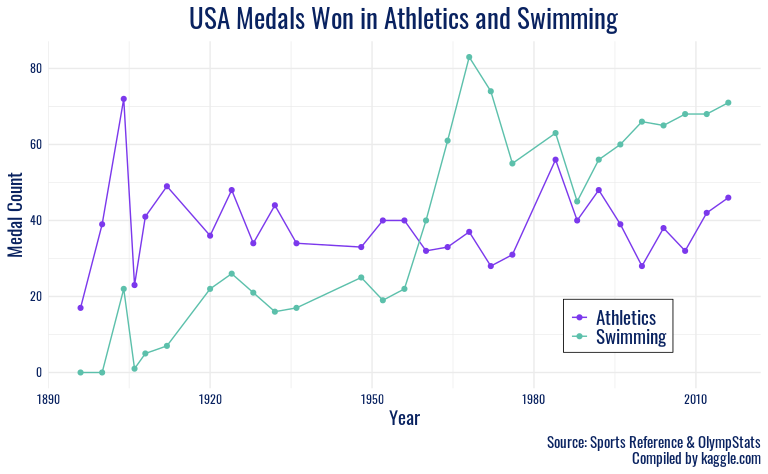
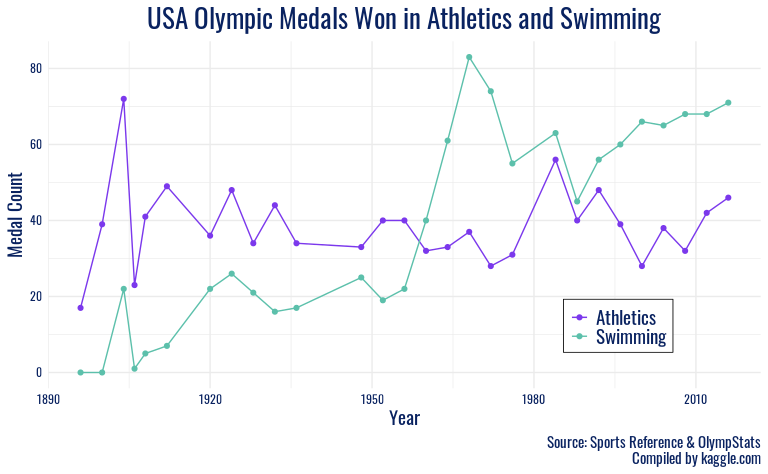
q2plot1

Changed region(s): [[0.1875, 0.0, 0.875, 0.0886]]

diff --git a/README.md b/README.md
@@ -11,6 +11,22 @@ by Mr. Palmer’s Penguins
 
     ## Loading required package: ggplot2
 
+    ## 
+    ## Attaching package: 'dplyr'
+
+    ## The following objects are masked from 'package:plyr':
+    ## 
+    ##     arrange, count, desc, failwith, id, mutate, rename, summarise,
+    ##     summarize
+
+    ## The following objects are masked from 'package:stats':
+    ## 
+    ##     filter, lag
+
+    ## The following objects are masked from 'package:base':
+    ## 
+    ##     intersect, setdiff, setequal, union
+
     ## Rows: 271116 Columns: 15
 
     ## ── Column specification ────────────────────────────────────────────────────────
@@ -573,27 +589,7 @@ flags <- tibble(noc = noc_regions$noc, region = noc_regions$region, flag = count
 
 ``` r
 olympics <- left_join(olympics, flags, by = "noc")
-
-<<<<<<< HEAD
-olympics
 ```
-
-    ## # A tibble: 271,116 × 20
-    ##       id name    sex     age height weight team   noc   games  year season city 
-    ##    <dbl> <chr>   <chr> <dbl>  <dbl>  <dbl> <chr>  <chr> <chr> <dbl> <chr>  <chr>
-    ##  1     1 A Diji… M        24    180     80 China  CHN   1992…  1992 Summer Barc…
-    ##  2     2 A Lamu… M        23    170     60 China  CHN   2012…  2012 Summer Lond…
-    ##  3     3 Gunnar… M        24     NA     NA Denma… DEN   1920…  1920 Summer Antw…
-    ##  4     4 Edgar … M        34     NA     NA Denma… DEN   1900…  1900 Summer Paris
-    ##  5     5 Christ… F        21    185     82 Nethe… NED   1988…  1988 Winter Calg…
-    ##  6     5 Christ… F        21    185     82 Nethe… NED   1988…  1988 Winter Calg…
-    ##  7     5 Christ… F        25    185     82 Nethe… NED   1992…  1992 Winter Albe…
-    ##  8     5 Christ… F        25    185     82 Nethe… NED   1992…  1992 Winter Albe…
-    ##  9     5 Christ… F        27    185     82 Nethe… NED   1994…  1994 Winter Lill…
-    ## 10     5 Christ… F        27    185     82 Nethe… NED   1994…  1994 Winter Lill…
-    ## # … with 271,106 more rows, and 8 more variables: sport <chr>, event <chr>,
-    ## #   medal <chr>, date <date>, medal_winner <dbl>, medal_score <dbl>,
-    ## #   region <chr>, flag <chr>
 
 ``` r
 olympics_filter <- olympics %>%
@@ -602,24 +598,6 @@ olympics_filter <- olympics %>%
   summarize(total_winners = sum(medal_winner), total_score = sum(medal_score))%>%
   filter(total_winners >= 910)
 ```
-
-``` r
-olympics_filter
-```
-
-    ## # A tibble: 10 × 3
-    ##    noc   total_winners total_score
-    ##    <chr>         <dbl>       <dbl>
-    ##  1 AUS            1304        2440
-    ##  2 FRA            1627        3132
-    ##  3 GBR            1985        3986
-    ##  4 GER            1779        3501
-    ##  5 HUN            1123        2315
-    ##  6 ITA            1446        2956
-    ##  7 NED             918        1710
-    ##  8 SWE            1108        2212
-    ##  9 URS            2063        4362
-    ## 10 USA            5002       11279
 
 ``` r
 ggplot(olympics_filter, aes(x = reorder(noc, total_winners), y = total_winners, fill = noc, color = noc))+
@@ -658,32 +636,12 @@ usa_fil <- olympics %>%
     ## `summarise()` has grouped output by 'sport'. You can override using the `.groups` argument.
 
 ``` r
-usa_fil
-```
-
-    ## # A tibble: 56 × 4
-    ## # Groups:   sport [2]
-    ##    sport      year total_winners total_score
-    ##    <chr>     <dbl>         <dbl>       <dbl>
-    ##  1 Athletics  1896            17          41
-    ##  2 Athletics  1900            39          84
-    ##  3 Athletics  1904            72         149
-    ##  4 Athletics  1906            23          51
-    ##  5 Athletics  1908            41          93
-    ##  6 Athletics  1912            49         109
-    ##  7 Athletics  1920            36          80
-    ##  8 Athletics  1924            48          99
-    ##  9 Athletics  1928            34          75
-    ## 10 Athletics  1932            44         107
-    ## # … with 46 more rows
-
-``` r
 ggplot(usa_fil, aes(x = year, y = total_winners, color = sport, group = sport))+
   geom_line()+
   geom_point()+
   labs(x = "Year",
        y = "Medal Count",
-       title = "USA Medals Won in Athletics and Swimming",
+       title = "USA Olympic Medals Won in Athletics and Swimming",
        caption = "Source: Sports Reference & OlympStats\nCompiled by kaggle.com") +
   theme_minimal() +
   scale_color_manual(values = c("#7B38EC","#5CC0AB"))+
@@ -708,11 +666,13 @@ ggplot(usa_fil, aes(x = year, y = total_winners, color = sport, group = sport))+
 <img src="README_files/figure-gfm/unnamed-chunk-6-1.png" width="80%" />
 
 ``` r
-ggplot(usa_fil, aes(x = year, y = cumsum(total_winners), color = sport, group = sport))+
+usa_fil2 <- ddply(usa_fil, .(sport), transform, cumsumwin = cumsum(total_winners))
+
+ggplot(usa_fil2, aes(x = year, y = cumsumwin, color = sport, group = sport))+
   geom_line()+
   labs(x = "Year",
-       y = "Medal Count",
-       title = "USA Medals Won in Athletics and Swimming",
+       y = "Cumulative Medal Count",
+       title = "USA Cumulative Olympic Medals Won in Athletics and Swimming",
        caption = "Source: Sports Reference & OlympStats\nCompiled by kaggle.com") +
   theme_minimal() +
   scale_color_manual(values = c("#7B38EC","#5CC0AB"))+
@@ -735,21 +695,6 @@ ggplot(usa_fil, aes(x = year, y = cumsum(total_winners), color = sport, group = 
 ```
 
 <img src="README_files/figure-gfm/unnamed-chunk-7-1.png" width="80%" />
-=======
-olympics_cty <- olympics %>%
-  group_by(region, sport, date) %>%
-  summarize(total_winners = sum(medal_winner), total_score = sum(medal_score), .groups = "drop")
-```
-
-``` r
-olympics_cty %>%
-  filter(sport == "Gymnastics") %>%
-  ggplot(aes(x = date, y = total_score, group = region)) +
-  geom_line()
-```
-
-<img src="README_files/figure-gfm/unnamed-chunk-3-1.png" width="80%" />
->>>>>>> 0e4936f6e8d5419e58eb8fa5dc5b0ab37f00134f
 
 In our first visualization, we will plot `medals_total` on the y-axis
 and `date` on the x-axis with lines grouped by `country` and faceting by
@@ -804,11 +749,7 @@ olympics_gdp %>%
 
     ## Warning: Removed 123 rows containing missing values (geom_point).
 
-<<<<<<< HEAD
 <img src="README_files/figure-gfm/unnamed-chunk-10-1.png" width="80%" />
-=======
-<img src="README_files/figure-gfm/unnamed-chunk-6-1.png" width="80%" />
->>>>>>> 0e4936f6e8d5419e58eb8fa5dc5b0ab37f00134f
 
 ### Discussion
 
